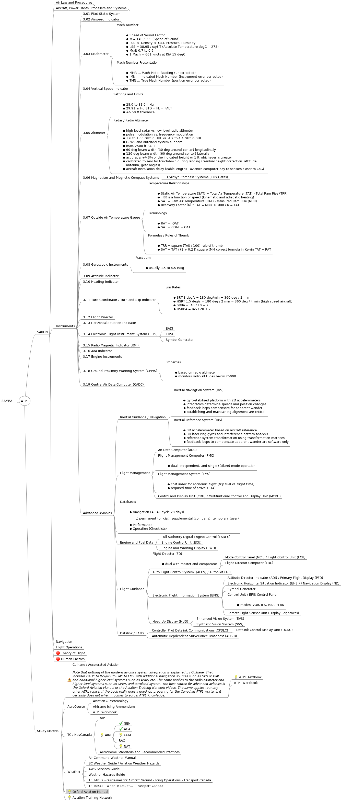
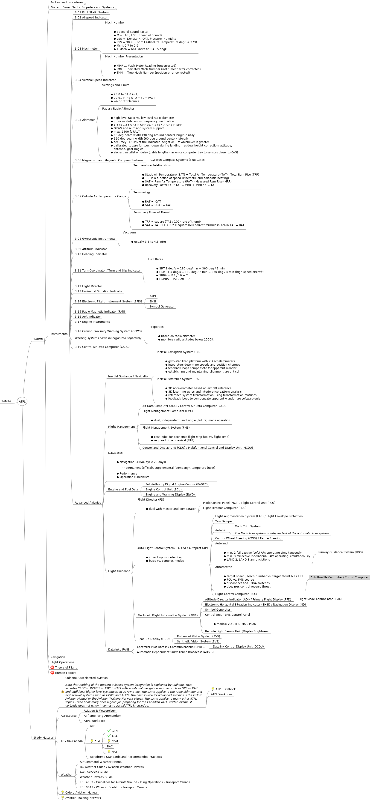
extended ATPL mind map

diff --git a/ATPL/ATPL.mm b/ATPL/ATPL.mm
@@ -2,7 +2,7 @@
 <!-- To view this file, download free mind mapping software FreeMind from http://freemind.sourceforge.net -->
 <node CREATED="1568171896215" ID="ID_207039425" MODIFIED="1568174283124" TEXT="ATPL">
 <node CREATED="1568171989853" ID="ID_1998192836" MODIFIED="1571349118254" POSITION="right" TEXT="SARON">
-<node CREATED="1568172948798" FOLDED="true" ID="ID_62855509" MODIFIED="1571415265885" TEXT="Air Law and Procedures">
+<node CREATED="1568172948798" FOLDED="true" ID="ID_62855509" MODIFIED="1571608023082" TEXT="Air Law and Procedures">
 <node CREATED="1568248593919" ID="ID_786473397" MODIFIED="1568248615351" TEXT="1.01 Airline Transport License - Aeroplane"/>
 <node CREATED="1568248623793" ID="ID_931108479" MODIFIED="1568248633722" TEXT="1.02 Medical Requirements"/>
 <node CREATED="1568248647568" ID="ID_829787578" MODIFIED="1568248662339" TEXT="1.03 Pilot Licence Privileges"/>
@@ -2287,7 +2287,7 @@
 </html></richcontent>
 </node>
 </node>
-<node CREATED="1569972736927" FOLDED="true" ID="ID_514782042" MODIFIED="1571415261879" TEXT="1.19 IFR Flight">
+<node CREATED="1569972736927" ID="ID_514782042" MODIFIED="1571604417502" TEXT="1.19 IFR Flight">
 <node CREATED="1569972903894" ID="ID_1927607732" MODIFIED="1569973965577">
 <richcontent TYPE="NODE"><html>
   <head>
@@ -2665,6 +2665,45 @@
     </ul>
   </body>
 </html></richcontent>
+</node>
+<node CREATED="1571604461685" ID="ID_284111892" MODIFIED="1571608011403">
+<richcontent TYPE="NODE"><html>
+  <head>
+    
+  </head>
+  <body>
+    <p>
+      Precision Approach Categories
+    </p>
+    <p>
+      
+    </p>
+    <ul>
+      <li>
+        CATI&#160;&#160;not below DH 200ft (BALT), VIS 800m, RVR 550m (2600, 1800)
+      </li>
+      <li>
+        CATII below DH 200ft but not below DH 100ft (RALT), RVR 300m (900)
+      </li>
+      <li>
+        CATIII
+
+        <ul>
+          <li>
+            CATIIIa below DH 100ft (RALT), not below RVR 200m (700)
+          </li>
+          <li>
+            CATIIIb below DH 50ft (RALT), below RVR 200m but not below 75m (250)
+          </li>
+          <li>
+            CATIIIc no minima / no external references required
+          </li>
+        </ul>
+      </li>
+    </ul>
+  </body>
+</html>
+</richcontent>
 </node>
 </node>
 <node CREATED="1570128169387" FOLDED="true" ID="ID_377019714" MODIFIED="1571166280288">
@@ -3143,7 +3182,7 @@
 </html></richcontent>
 </node>
 </node>
-<node CREATED="1570571426538" FOLDED="true" ID="ID_1271413056" MODIFIED="1571166304946" TEXT="1.28A Aerodromes and Airports">
+<node CREATED="1570571426538" FOLDED="true" ID="ID_1271413056" MODIFIED="1571604039129" TEXT="1.28A Aerodromes and Airports">
 <node CREATED="1570648881237" ID="ID_1814832997" MODIFIED="1570649085336">
 <richcontent TYPE="NODE"><html>
   <head>
@@ -3493,7 +3532,7 @@
 </html></richcontent>
 </node>
 </node>
-<node CREATED="1571167665117" FOLDED="true" ID="ID_738976037" MODIFIED="1571187006156" TEXT="1.33 Operational and Emergency Equipment">
+<node CREATED="1571167665117" FOLDED="true" ID="ID_738976037" MODIFIED="1571604080046" TEXT="1.33 Operational and Emergency Equipment">
 <node CREATED="1571167683745" ID="ID_628907529" MODIFIED="1571167861193">
 <richcontent TYPE="NODE"><html>
   <head>
@@ -4520,7 +4559,7 @@
 </node>
 </node>
 </node>
-<node CREATED="1568173327294" FOLDED="true" ID="ID_1056315969" MODIFIED="1571427676166" TEXT="Aircraft, Power Plants, Propellers and Systems">
+<node CREATED="1568173327294" FOLDED="true" ID="ID_1056315969" MODIFIED="1571608027060" TEXT="Aircraft, Power Plants, Propellers and Systems">
 <node CREATED="1571327524134" ID="ID_29009248" MODIFIED="1571327532756" TEXT="2.01 Airframes"/>
 <node CREATED="1571327585082" FOLDED="true" ID="ID_1625666533" MODIFIED="1571420924909" TEXT="2.02 Reciprocating Engines">
 <node CREATED="1571327618540" ID="ID_1652578402" MODIFIED="1571327873060">
@@ -4811,7 +4850,28 @@
 </node>
 </node>
 <node CREATED="1571424123744" ID="ID_146942940" MODIFIED="1571424133239" TEXT="2.19 Air Conditioning Systems"/>
-<node CREATED="1571424207731" ID="ID_1043737505" MODIFIED="1571424214506" TEXT="2.20 Autopilot Systems"/>
+<node CREATED="1571424207731" ID="ID_1043737505" MODIFIED="1571597006953">
+<richcontent TYPE="NODE"><html>
+  <head>
+    
+  </head>
+  <body>
+    <p>
+      2.20 Autopilot Systems
+    </p>
+    <p>
+      
+    </p>
+    <p>
+      <i>Automatic flight control systems are collected under Advanced Avionics </i>
+    </p>
+    <p>
+      <i>in the Instruments section. Since integrated avionics systems are at the heart of any modern aircraft, avionics could be addressed separately.</i>
+    </p>
+  </body>
+</html>
+</richcontent>
+</node>
 </node>
 <node CREATED="1568173515599" ID="ID_228371769" MODIFIED="1568173519521" TEXT="Instruments">
 <node CREATED="1571427682321" ID="ID_452501545" MODIFIED="1571427696475" TEXT="3.01 Pitot Static System"/>
@@ -5151,7 +5211,24 @@
 <node CREATED="1571438213436" ID="ID_338551828" MODIFIED="1571438225185" TEXT="3.15 Radio Magnetic Indicator (RMI)"/>
 <node CREATED="1571438315521" ID="ID_716177099" MODIFIED="1571438323148" TEXT="3.16 AoA Indicator"/>
 <node CREATED="1571438351263" ID="ID_1259682556" MODIFIED="1571438358297" TEXT="3.17 Engine Instruments"/>
-<node CREATED="1571438617782" ID="ID_1199287563" MODIFIED="1571438633269" TEXT="3.18 Ground Proximity Warning System (GPWS)">
+<node CREATED="1571438617782" ID="ID_1199287563" MODIFIED="1571608348116">
+<richcontent TYPE="NODE"><html>
+  <head>
+    
+  </head>
+  <body>
+    <p>
+      3.18 Ground Proximity Warning System (GPWS)
+    </p>
+    <p>
+      
+    </p>
+    <p>
+      <i>Warning systems could be organized separately.</i>
+    </p>
+  </body>
+</html>
+</richcontent>
 <node CREATED="1571438663404" ID="ID_557132684" MODIFIED="1571509871382">
 <richcontent TYPE="NODE"><html>
   <head>
@@ -5250,7 +5327,7 @@
 </node>
 </node>
 <node CREATED="1571511876738" ID="ID_151244063" MODIFIED="1571511881224" TEXT="Flight Management">
-<node CREATED="1571511900989" ID="ID_127469512" MODIFIED="1571512777278" TEXT="Air Data Computer (ADC)"/>
+<node CREATED="1571511900989" ID="ID_127469512" MODIFIED="1571598621332" TEXT="Air Data Computer (ADC) / Central Air Data Computer (CADC)"/>
 <node CREATED="1571511907083" ID="ID_1442524877" MODIFIED="1571514603717">
 <richcontent TYPE="NODE"><html>
   <head>
@@ -5374,12 +5451,11 @@
       </li>
     </ul>
   </body>
-</html>
-</richcontent>
+</html></richcontent>
 <node CREATED="1571526470308" ID="ID_1676017106" MODIFIED="1571526828129" TEXT="Mode Control Panel (MCP) / Flight Control Unit (FCU)"/>
 <node CREATED="1571526659877" ID="ID_674644820" MODIFIED="1571526672077" TEXT="Flight Director Computer (FDC)"/>
 </node>
-<node CREATED="1571512714238" ID="ID_142311553" MODIFIED="1571512884973">
+<node CREATED="1571512714238" ID="ID_142311553" MODIFIED="1571598673797">
 <richcontent TYPE="NODE"><html>
   <head>
     
@@ -5388,8 +5464,104 @@
     <p>
       Auto Flight Control System&#160;&#160;(AFCS) / Autopilot (AP)
     </p>
+    <p>
+      
+    </p>
+    <ul>
+      <li>
+        inner loop vs. outer loop
+      </li>
+      <li>
+        basic vs. complex modes
+      </li>
+    </ul>
   </body>
-</html></richcontent>
+</html>
+</richcontent>
+<node CREATED="1571596411107" ID="ID_187168671" MODIFIED="1571596447496" TEXT="Flight Augmentation System (FAS) / Flight Envelope Protection"/>
+<node CREATED="1571597431561" ID="ID_479720438" MODIFIED="1571597435950" TEXT="Yaw Damper"/>
+<node CREATED="1571597800238" ID="ID_437718041" MODIFIED="1571597804467" TEXT="Autotrim">
+<node CREATED="1571597939240" ID="ID_1213303883" MODIFIED="1571598871408">
+<richcontent TYPE="NODE"><html>
+  <head>
+    
+  </head>
+  <body>
+    <p>
+      Mach Trim System
+    </p>
+    <p>
+      
+    </p>
+    <p>
+      <i>The Mach trim system is independent of the automatic trim system.</i>
+    </p>
+  </body>
+</html>
+</richcontent>
+</node>
+</node>
+<node CREATED="1571598322448" ID="ID_705373333" MODIFIED="1571598337310" TEXT="Control Wheel Steering (CWS) / Tactile Steering"/>
+<node CREATED="1571597488979" ID="ID_48911752" MODIFIED="1571603097332">
+<richcontent TYPE="NODE"><html>
+  <head>
+    
+  </head>
+  <body>
+    <p>
+      Autoland
+    </p>
+    <p>
+      
+    </p>
+    <ul>
+      <li>
+        min. 2 fail-passive (soft) APs operating simultaneously
+      </li>
+      <li>
+        min. 3 fail-active (operational) APs operating simultaneously
+      </li>
+      <li>
+        LAND 2, LAND 3 annunciations
+      </li>
+    </ul>
+  </body>
+</html>
+</richcontent>
+<node CREATED="1571609252892" ID="ID_1499882816" MODIFIED="1571609262345" TEXT="Runway Guidance System (RGS)"/>
+</node>
+<node CREATED="1571597495922" ID="ID_257490741" MODIFIED="1571609082180">
+<richcontent TYPE="NODE"><html>
+  <head>
+    
+  </head>
+  <body>
+    <p>
+      Autothrottle
+    </p>
+    <p>
+      
+    </p>
+    <ul>
+      <li>
+        target speed / Mach number vs. target thrust N1 / EPR
+      </li>
+      <li>
+        FCU vs. FMS source
+      </li>
+      <li>
+        disconnect and TOGA switches
+      </li>
+      <li>
+        does <b>not</b>&#160;control reverse thrust
+      </li>
+    </ul>
+  </body>
+</html>
+</richcontent>
+<node CREATED="1571609409386" ID="ID_1641487280" MODIFIED="1571609938978" TEXT="Autothrottle Computer / Thrust Computer"/>
+</node>
+<node CREATED="1571598677320" ID="ID_500380032" MODIFIED="1571598684527" TEXT="Flight Control Computer (FCC)"/>
 </node>
 <node CREATED="1571513704646" ID="ID_507011782" MODIFIED="1571513720752" TEXT="Electronic Flight Information System (EFIS)">
 <node CREATED="1571516673519" ID="ID_1100983526" MODIFIED="1571516800491">
@@ -5402,8 +5574,8 @@
       Attitude Director Indicator (ADI) / Primary Flight Display (PFD)
     </p>
   </body>
-</html>
-</richcontent>
+</html></richcontent>
+<node CREATED="1571598057400" ID="ID_1495454146" MODIFIED="1571598070353" TEXT="Flight Mode Annunciator (FMA)"/>
 </node>
 <node CREATED="1571516689441" ID="ID_365662995" MODIFIED="1571516868895" TEXT="Electronic Horizontal Situation Indicator (EHSI) / Navigation Display (ND)"/>
 <node CREATED="1571516974599" ID="ID_1974457970" MODIFIED="1571516979150" TEXT="Symbol Generator"/>
@@ -5425,8 +5597,7 @@
       </li>
     </ul>
   </body>
-</html>
-</richcontent>
+</html></richcontent>
 </node>
 <node CREATED="1571517557366" ID="ID_314177880" MODIFIED="1571517581896">
 <richcontent TYPE="NODE"><html>
@@ -5438,8 +5609,7 @@
       Remote Light Sensor Unit (Display Brightness)
     </p>
   </body>
-</html>
-</richcontent>
+</html></richcontent>
 </node>
 </node>
 <node CREATED="1571521886441" ID="ID_1981135394" MODIFIED="1571524360736" TEXT="Head Up Display (HUD)">
@@ -5459,8 +5629,7 @@
       Datalink Control Display Unit (DCDU)
     </p>
   </body>
-</html>
-</richcontent>
+</html></richcontent>
 </node>
 </node>
 <node CREATED="1571514026350" ID="ID_354818846" MODIFIED="1571514057039" TEXT="Automatic Depdendent Surveillance Broadcast (ADS-B)"/>
@@ -5486,7 +5655,7 @@
 <node CREATED="1568172671136" ID="ID_1053951536" MODIFIED="1568172701231" TEXT="Radio Communication and Navigation Aids"/>
 </node>
 <node CREATED="1568671682779" ID="ID_1658639647" MODIFIED="1571511537883" POSITION="right" TEXT="Study Material">
-<node CREATED="1568671700482" ID="ID_217896736" MODIFIED="1571511712592">
+<node CREATED="1568671700482" ID="ID_217896736" MODIFIED="1571595691756">
 <richcontent TYPE="NODE"><html>
   <head>
     
@@ -5499,10 +5668,11 @@
       
     </p>
     <p>
-      <i>Note that nothing of the modern avionics system integration is explained by Culhane. That includes CADC to INS/IRS to FMC to FMS with additional navigation sources such as GPS or DME and additional higher level systems such as AHRS etc. The same applies to the radio altimeter and higher level systems such as GPWS and autoland system. The best source for advanced avionics is the Oxford Aviation Manual or the Aviation Training Network videos. The same applies to many other ATPL topics. If the book really does a good job preparing for the Canadian ATPL writtens, it certainly does not when it comes to actual ATPL knowledge.</i>
+      <i>Note that nothing of the modern avionics system integration is explained by Culhane. That includes CADC to INS/IRS to FMC to FMS with additional navigation sources such as GPS or DME and additional higher level systems such as AHRS etc. The same applies to the radio altimeter and higher level systems such as GPWS and AFCS. The best source for advanced avionics is the Oxford Aviation Manual or the Aviation Training Network videos. The same applies to many other ATPL topics. If the book really does a good job preparing for the Canadian ATPL written exams, it certainly does not when it comes to actual ATPL knowledge.</i>
     </p>
   </body>
-</html></richcontent>
+</html>
+</richcontent>
 <icon BUILTIN="messagebox_warning"/>
 <node CREATED="1568671752273" ID="ID_386732757" MODIFIED="1568672230580" TEXT="ATPL Textbook">
 <icon BUILTIN="idea"/>
